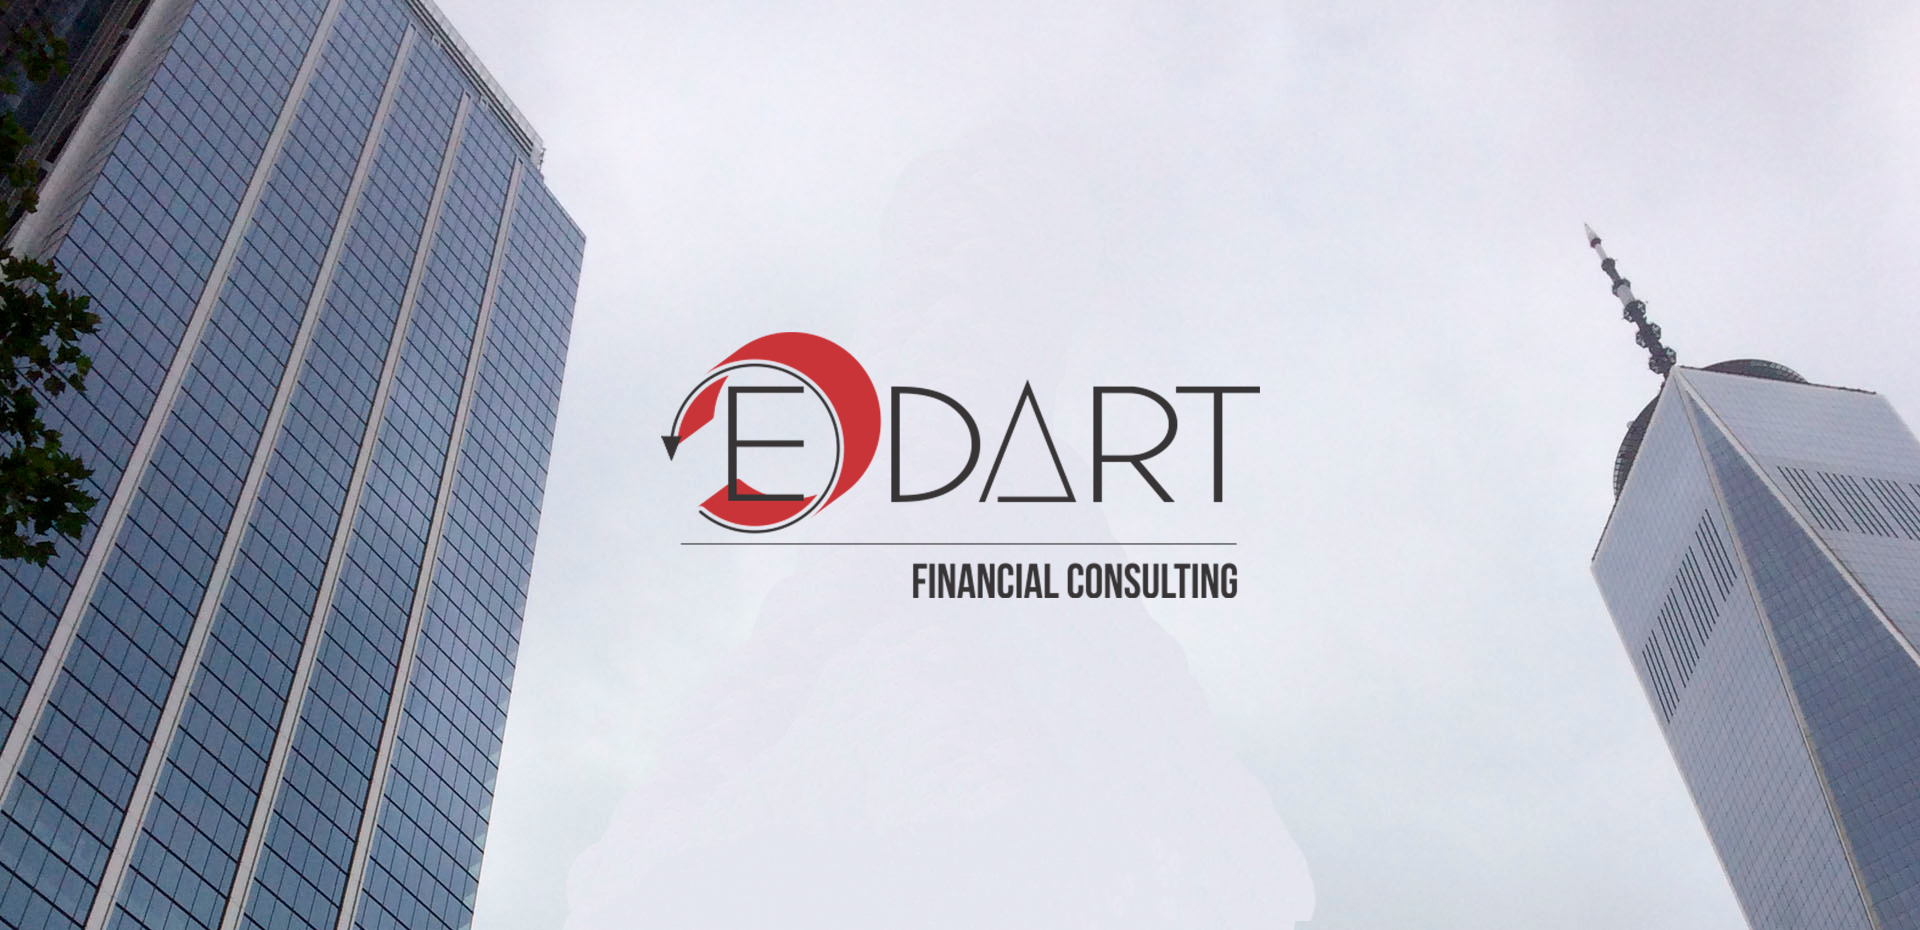
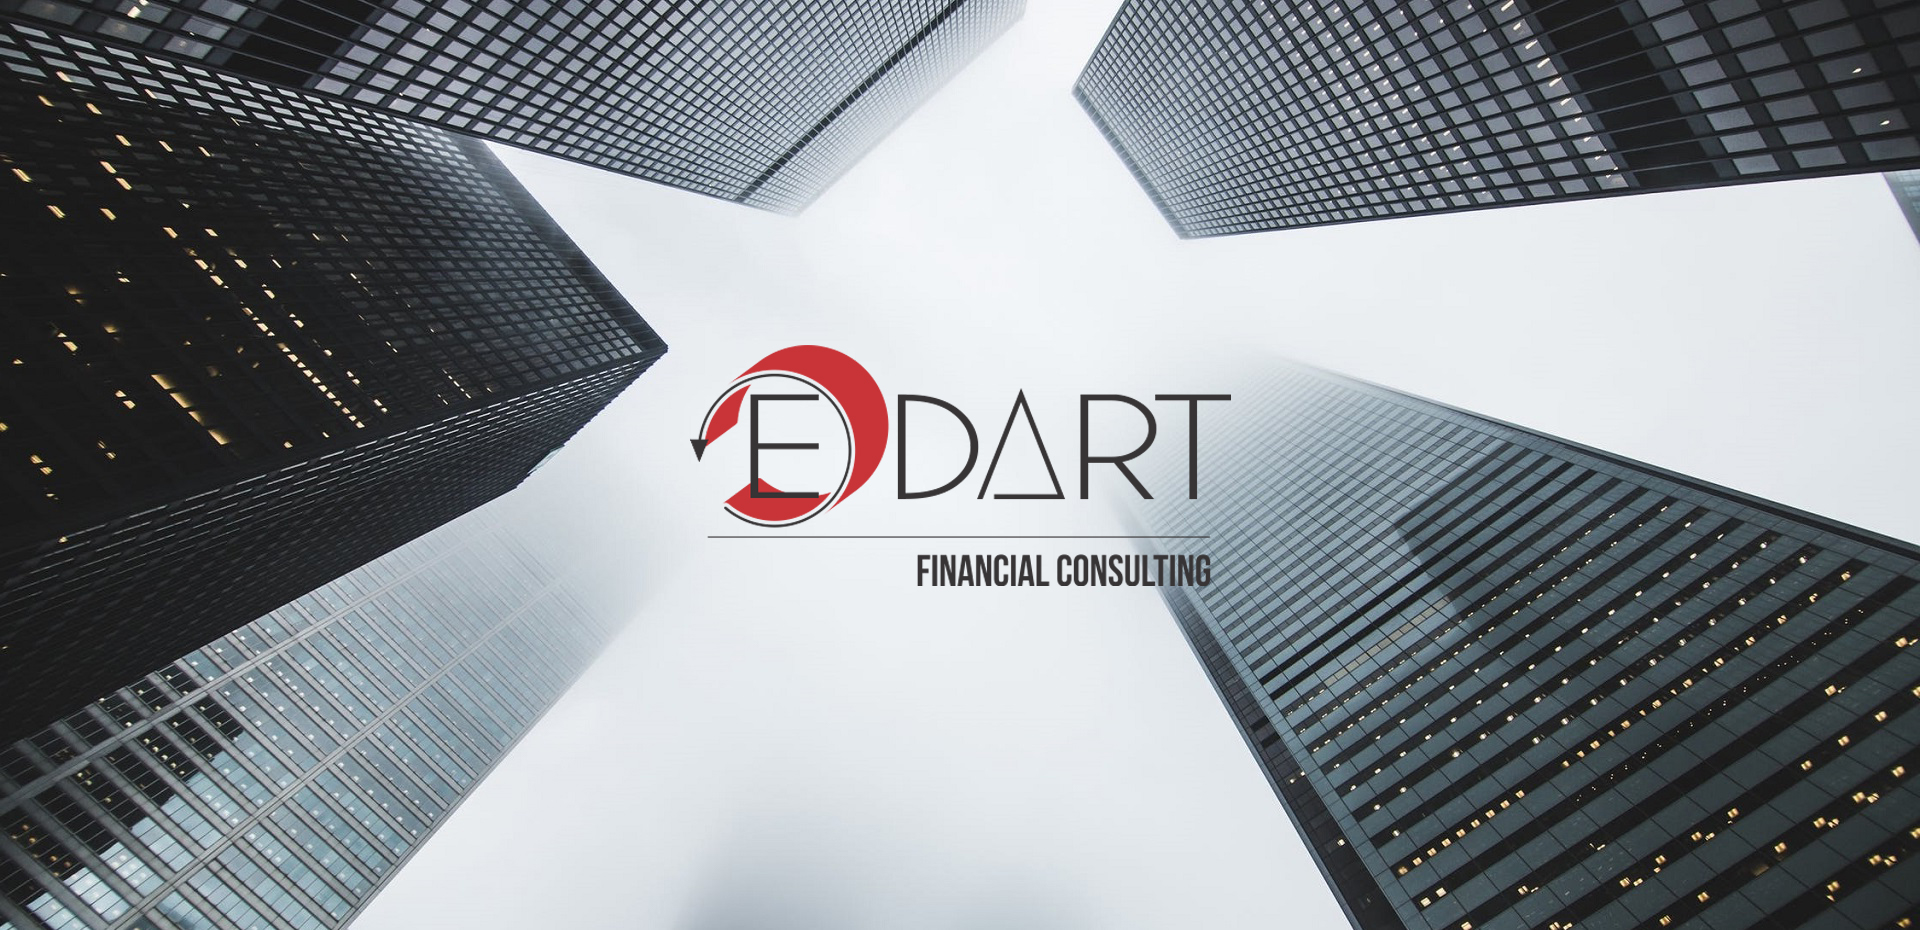
Melhorias diversas
- Alterar o menu "Time" para "Corporativo"
- Alterar a primeira imagem do carrosel para uma com mais prédios
- Alterar o menu "Sobre"

diff --git a/index.html b/index.html
@@ -204,49 +204,53 @@
 					</div>
 				</div>
 				<div class="row">
-					<div class="col-md-6 col-sm-6 col-xs-12">
-						<div class="well-left">
-							<div class="single-well">
-								<img src="img/about/about1.jpg" alt="about1">
-							</div>
-						</div>
-						<br/>
-						<div class="well-left">
-							<div class="single-well">
-								<img src="img/about/about2.jpg" alt="about2">
-							</div>
-						</div>
-						<br/>
-						<div class="well-left">
-							<div class="single-well">
-								<img src="img/about/about3.jpg" alt="about3">
-							</div>
-						</div>
-					</div>
-					<div class="col-md-6 col-sm-6 col-xs-12">
+					<div class="col-md-12 col-sm-12 col-xs-12">
 						<div class="well-middle">
 							<div class="single-well">
+								<h4 class="minor-title-about">Nossos pilares</h4>
+								<h2>Segurança, Confiança e Agilidade</h2>
 								<p>
-									Somos um time incansável e apaixonado pelo que faz, que investimos em inovadoras tecnologias e dados para proporcionar a melhor experiência, segurança e rentabilidade aos nossos clientes, construindo a nova economia de foma sustentável e duradoura.
+									Fundada em outubro de 2017, no Rio de Janeiro, a BitcoinTrade é a mais segura plataforma de moedas digitais da América Latina. Com menos de 2 anos de operação, já estamos entre os líderes do mercado nacional, em volume negociado mensalmente.
 								</p>
 								<p>
-									Por sua graduação em Tecnologia da informação, MBA em gestão estratégica de negócios, Marketing, Business Coaching e experiência de mais de 20 anos como executivo em grandes empresas, seu fundador, João da Silva alia o que há de mais pragmático, estratégico e racional da administração de empresas ao lado humano, psicológico e motivacional das pessoas. Este equilíbrio já ajudou inúmeras pessoas em sua carreira executiva, bem como em reuniões de consultoria e Coaching empresarial.
+									Hoje atendemos a <strong>milhares de clientes e empresas</strong>, entregando uma solução simples, segura e ágil para compra e venda de moedas digitais.
 								</p>
-								<p>
-									Nossa Missão é <strong>"Impactar positivamente pessoas e empresas maximizando resultados desejados"</strong>.
-								</p>
-								<h4 class="sec-head">Nossos propósitos</h4>
-								<ul>
-									<li>
-										<i class="fa fa-check"></i> Fomos idealizados para transformar o mercado financeiro através da nossa forma de análise e prática. Acreditamos que a mudança do cenário acontece devido a nossa agilidade e competência, que são soluções para uma entrega de expectativas superadas.
-									</li>
-									<li>
-										<i class="fa fa-check"></i> Temos como centro do nosso negócio a conexão das pessoas através de nossa tecnologia, mas para que isso aconteça, é necessário que haja um time humano por trás de toda a operação. Criamos um relacionamento com nossos clientes e fazemos com que eles se sintam à vontade para nos contatar a qualquer momento, fazendo com que a conexão seja completa durante todo o ciclo.
-									</li>
-									<li>
-										<i class="fa fa-check"></i> A transparência é a chave para a geração de confiança, e a chave para criação da nova economia. Por isso, todo o nosso histórico de desempenho e nossas regulamentações estão sempre disponíveis, além de estarmos a todo o momento ao seu lado para esclarecimentos de dúvidas e prestação do melhor atendimento.
-									</li>
-								</ul>
+								<div class="col-md-4 col-sm-4 col-xs-12 adjacent-item-about-details">
+									<h2 class="title-item-about-details">Segurança</h2>
+									<p>
+										Mais segurança com o certificado de autenticidade
+									</p>
+								</div>
+								<div class="col-md-4 col-sm-4 col-xs-12 middle-item-about-details">
+									<h2 class="title-item-about-details">EV SSL</h2>
+									<p>
+										Armazenamento offline sem risco de perda de criptomoedas
+									</p>
+								</div>
+								<div class="col-md-4 col-sm-4 col-xs-12 adjacent-item-about-details">
+									<h2 class="title-item-about-details">2FA</h2>
+									<p>
+										Uma camada extra de segurança com 2 fatores de autenticação
+									</p>
+								</div>
+								<div class="col-md-4 col-sm-4 col-xs-12 adjacent-item-about-details">
+									<h2 class="title-item-about-details">+1 bilhão</h2>
+									<p>
+										Mais de 1 bilhão de negociações realizadas
+									</p>
+								</div>
+								<div class="col-md-4 col-sm-4 col-xs-12 middle-item-about-details">
+									<h2 class="title-item-about-details">+180 mil</h2>
+									<p>
+										Mais de 180 mil clientes cadastrados
+									</p>
+								</div>
+								<div class="col-md-4 col-sm-4 col-xs-12 adjacent-item-about-details">
+									<h2 class="title-item-about-details">100%</h2>
+									<p>
+										Todos os tickets dos clientes resolvidos
+									</p>
+								</div>
 							</div>
 						</div>
 					</div>

diff --git a/css/style.css b/css/style.css
@@ -2357,7 +2357,30 @@ span.email-notes {
 }
 
 .navbar-logo {
-  margin: 5% 0
+  margin: 5% 0;
+}
+
+.middle-item-about-details {
+  border-left: solid 1px;
+  border-right: solid 1px;
+}
+
+.adjacent-item-about-details {
+  margin-bottom: 50px;
+}
+
+.minor-title-about, .title-item-about-details {
+  color: #C83438;
+  text-align: center;
+}
+
+.minor-title-about + h2 {
+  text-align: center;
+  margin-bottom: 50px;
+}
+
+.title-item-about-details + p {
+  text-align: center;
 }
 
 /*----------------------------------------
